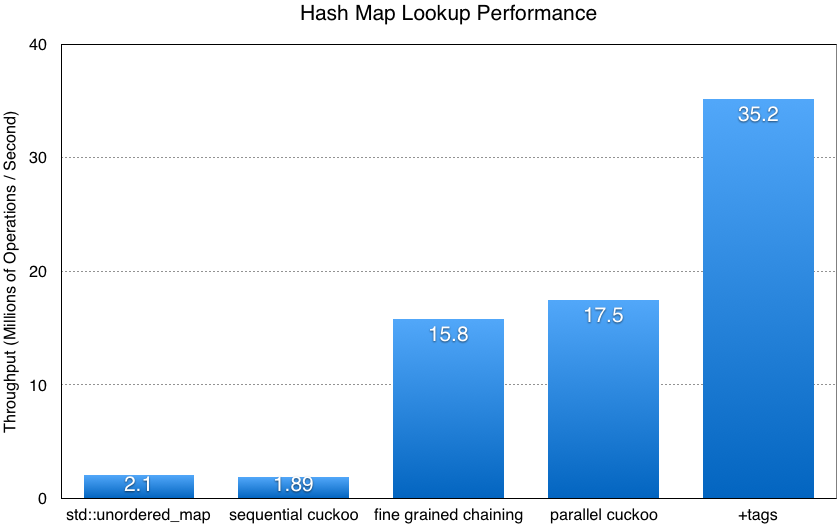
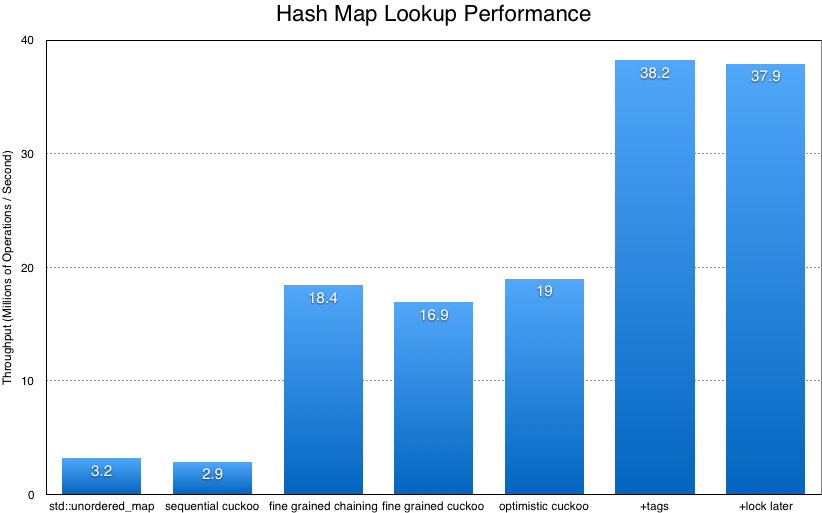
Update final report

Changed region(s): [[0.0304, 0.0, 1.0, 1.0], [0.0, 0.2183, 0.0912, 0.8109]]

diff --git a/website/index.html b/website/index.html
@@ -81,10 +81,10 @@
     <div class="container" id="checkpoint">
 
         <div class="row">
-            <div class="col-lg-8">
+            <div class="col-lg-10">
                 <h2>Summary</h2>
 
-                <p>We implemented a parallel hashmap using concurrent cuckoo hashing optimizations for read-heavy workloads. Based on our benchmarks, our fastest implementation was able to achieve a <b>16.8x speedup for concurrent reads</b> over a <code>C++11 std::unordered_map</code> using the Intel Xeon CPU E5-2680.</p>
+                <p>We implemented a parallel hashmap using concurrent cuckoo hashing optimizations for read-heavy workloads using algorithmic improvements described in MemC3 by Fan et al.<sup>1</sup> and in another paper by Li et al.<sup>2</sup> Based on our benchmarks, our fastest implementation was able to achieve a <b>12x speedup for concurrent reads</b> over a single threaded <code>C++11 std::unordered_map</code> while maintaining <b>90% space efficiency</b> using two Intel Xeon E5-2620 v3 processors.</p>
 
                 <hr>
 
@@ -95,7 +95,7 @@
                     <figcaption><b>Figure 1.</b> Cuckoo Hashing.</figcaption>
                 </figure></center>
                 <br>
-                <p>Cuckoo hashing is a scheme for resolving hash collisions in a hashmap. The idea is use two hash functions instead of one, so that there are two buckets for the key to reside in. If all slots in both buckets are full, the key is inserted at a random slot within the two buckets, and the existing key at the randomly chosen slot is evicted and reinserted at another bucket. <b>Lookups are guaranteed to be constant time</b> because we need to search at most <code>2*NUM_SLOTS_PER_BUCKET</code> slots for a key.</p>
+                <p>Cuckoo hashing is a scheme for resolving hash collisions in a hashmap. The idea is to use two hash functions instead of one, so that there are two buckets for the key to reside in. If all slots in both buckets are full, the key is inserted at a random slot within the two buckets, and the existing key at the randomly chosen slot is evicted and reinserted at another bucket. <b>Lookups are guaranteed to be constant time</b> because we need to search at most <code>2*NUM_SLOTS_PER_BUCKET</code> slots for a key.</p>
 
                 <hr>
 
@@ -138,66 +138,86 @@ struct HashEntry {
 
                 <br>
 
-                <p><b>Space Efficiency:</b> Using 4 slots per bucket with tag-based lookups and insertions allows us to achieve <b>90% space efficiency without significant degradation in performance</b>. Other open addressing schemes such as linear probing and basic cuckoo hashing tend to degrade in performance after about 50% space efficiency.</p>
+                <p><b>Space Efficiency: </b>Using 4 slots per bucket with tag-based lookups and insertions allows us to achieve <b>90% space efficiency without significant degradation in performance</b>. Other open addressing schemes such as linear probing and basic cuckoo hashing tend to degrade in performance after about 50% space efficiency.</p>
 
                 <br>
 
-                <p>After implementing the optimizations above for a multiple reader, single writer workload, we want to create a general purpose concurrent hashmap that performed well for multiple writers.</p>
+                <p>After implementing the optimizations above for a multiple reader, single writer workload, we wanted to create a general purpose concurrent hashmap that performed well for multiple writers.</p>
+
+                <p><b>Lock Later: </b>After separating path discovery and path eviction for insertions, concurrent writers can search for paths in parallel because path search does not make modifications to the data structure. This reduces the critical region to just the path eviction step, although insertion threads must verify during the eviction step that their paths are still valid.</p>
 
                 <hr>
 
                 <h2>Results</h2>
 
-                <p>We measured the results of our hashmap implementations by benchmarking raw read/write throughput per second. We used 10M strings, converted from randomly generated integers, as key and value inputs. All tests were performed on an Intel Xeon CPU E5-2680, which has 64-byte cache lines. Recall that a HashPointer struct in a parallel cuckoo hashmap with tags requires 16 bytes, so a 4-way set associative bucket can fit entirely into a 64-byte cache line.</p>
+                <p>We measured the results of our hashmap implementations by benchmarking raw read/write throughput per second. We used 10M strings, converted from randomly generated integers, as key and value inputs. All tests were performed on two Intel Xeon E5-2620 v3 processors.</p>
 
                 <br>
 
                 <figure><center>
-                    <img src="img/01_read_throughput.png" style="width:50%;height:50%;">
-                    <figcaption><b>Figure 3. </b>Randomized read throughput with 24 threads for parallel implementations.</figcaption>
+                    <img src="img/01_read_throughput.png" style="width:55%;height:55%;">
+                    <figcaption><b>Figure 3. </b>Randomized read throughput with 24 threads for parallel implementations. <br>90% space efficiency was used for all cuckoo hashing schemes.</figcaption>
                 </figure></center>
 
-                <br><br><br>
+                <br>
+
+                <p>Our first optimistic cuckoo implementation (with lock striping) achieved 18.7M reads per second with 24 threads, which is slightly faster than both fine grained (locking over each bucket) separate chaining and fine grained cuckoo hashing. We achieved a significant increase in performance when we implemented the tag optimization. Recall that a HashPointer struct in a parallel cuckoo hashmap with tags requires 16 bytes, so a 4-way set associative bucket can fit entirely into a 64-byte cache line. Also, a 1 byte tag can take on 256 different values, so we only need to make a pointer dereference 1/256 times. We are able to achieve 35.9M reads per second, a <b>12x speedup for concurrent reads using optimistic cuckoo hashing with tags</b> over a single threaded <code>C++11 std::unordered_map</code> on the Latedays Xeon Phi. The lock later optimization did not yield any noticeable speedup for reads, which is expected because lock later was an extra optimization to allow for concurrent writes.</p>
+
+                <hr>
 
                 <figure><center>
-                    <img src="img/02_space_efficiency.png" style="width:50%;height:50%;">
-                    <figcaption><b>Figure 4. </b>Randomized read throughput with 24 threads for parallel implementations. Parallel cuckoo hashing with the tag optimization did not have any significant performance degradation even as the density of the hashmap increased to 90%, likely because reads for contiguous slots in a bucket after the first slot are cache hits.</figcaption>
+                    <img src="img/02_space_efficiency.png" style="width:55%;height:55%;">
+                    <figcaption><b>Figure 4. </b>Randomized read throughput with 24 threads for parallel implementations. <br>90% space efficiency was used for all cuckoo hashing schemes.</figcaption>
                 </figure></center>
 
-                <br><br><br>
+                <br>
+
+                <p>As we make the hashmaps denser by increasing space efficiency, the sequential cuckoo, fine grained cuckoo, and optimistic cuckoo implementations decreased in performance. This is because read operations for denser hashmaps, on average, search through more slots before the correct key-value pair is found. Recall that a reader thread will need to search up to <code>2*NUM_SLOTS_PER_BUCKET</code> slots, but will generally search fewer slots in sparser hashmaps. <b>Optimistic cuckoo hashing with the tag optimization did not have any significant performance degradation</b> even as the space efficiency of the hashmap increased to 90%. This was likely due to the effects of our tag optimization, where we maximized cache locality and minimized the number of pointer deferences. Optimistic cuckoo hashing with both the tag and lock later optimizations (not included in Figure 4) had nearly identical results.</p>
+
+                <hr>
 
                 <figure><center>
-                    <img src="img/03_single_bucket_lookups.png" style="width:50%;height:50%;">
+                    <img src="img/03_single_bucket_lookups.png" style="width:55%;height:55%;">
                     <figcaption><b>Figure 5. </b>Read throughput with a single random key that hashes to the same bucket. </figcaption>
-                </figure></center>
+                </center></figure>
 
-                <br><br><br>
+                <br>
 
-                <figure><center>
-                    <img src="img/04_hash_throughput.png" style="width:50%;height:50%;">
-                    <figcaption><b>Figure 6. </b>Speed of various hash functions on strings. We tested different hash functions because the overhead of hashing keys was a significant performance bottleneck. The throughput for hashlittle2 in the graph was multiplied by 2 to account for hashlittle2 generating two  32-bit hash values.</figcaption>
-                </figure></center>
+                <p>We measured read throughput under high contention by performing concurrent read operations on the same key, which always hashes to the same bucket. Performance for all hashmap implementations decreased in the multithreaded case compared to the single threaded case. Even under high contention, the optimistic cuckoo implementations were relatively faster than both fine grained cuckoo hashing and fine grained separate chaining.</p>
 
-                <br><br><br>
+                <hr>
 
                 <figure><center>
-                    <img src="img/05_insertion_throughput.png" style="width:50%;height:50%;">
-                    <figcaption><b>Figure 7. </b>Our work presented so far focuses on a read-heavy workload. Over the next few days, we will experiment with optimizations for improving write throughput. We want to try a "lock later" optimization where multiple threads can concurrently search for an eviction path during cuckoo insertion. If we have time, we will also experiment with different set associativities and try using spin locks over simple mutexes.</figcaption>
+                    <img src="img/04_hash_throughput.png" style="width:55%;height:55%;">
+                    <figcaption><b>Figure 6. </b>Speed of various hash functions on strings.</figcaption>
                 </figure></center>
 
                 <br>
+
+                <p>We tested different hash functions because the overhead of hashing keys was a significant performance bottleneck. We found that <code>hashlittle2</code>, a 64-byte hash that effectively generates two 32-byte hash values, provided the highest throughput. The throughput for <code>hashlittle2</code> in the graph was multiplied by 2 to account for <code>hashlittle2</code> generating two 32-bit hash values in a single function call.</p>
+
+                <hr>
+
+                <figure><center>
+                    <img src="img/05_insertion_throughput.png" style="width:55%;height:55%;">
+                    <figcaption><b>Figure 7. </b>Performance of interleaved read/write requests on hashmaps pre-populated to 80% space efficiency.</figcaption>
+                </figure></center>
+
+                <br>
+
+                <p>We measured interleaved read and write throughput on dense hashmaps. All hashmaps were pre-populated by performing write operations until 80% of the slots in the hashmap were occupied. Then we measured performance on the pre-populated hashmaps with interleaved read and write requests, ranging from 90% reads (and 10% writes) to 100% reads. The key observation of our results is that the lock later optimization (blue line in Figure 7) is faster than optimistic cuckoo hashing without the lock later optimization (green and yellow lines) because <b>the lock later optimization speeds up write throughput.</b></p>
 
                 <hr>
 
                 <h3>Acknowledgements</h3>
-                <p>Many of the optimizations implemented for this project were borrowed from Fan et. al.<sup>1</sup></p>
+                <p>Many of the optimizations implemented for this project were borrowed from Fan et al<sup>1</sup> and Li et al.<sup>2</sup></p>
                 <p>Our hash function was written by Bob Jenkins and is publicly available <a href="http://burtleburtle.net/bob/c/lookup3.c" target="_blank">here</a>.</p>
 
                 <hr>
 
                 <h3>References</h3>
                 <sup>1</sup><a href="http://www.cs.cmu.edu/~dga/papers/memc3-nsdi2013.pdf">http://www.cs.cmu.edu/~dga/papers/memc3-nsdi2013.pdf</a><br>
-
+                <sup>2</sup><a href="http://www.cs.princeton.edu/~xl/Publications_files/cuckoo-eurosys14.pdf">http://www.cs.princeton.edu/~xl/Publications_files/cuckoo-eurosys14.pdf</a><br>
                 <hr>
 
                 <h3>Work Done By Each Student</h3>
